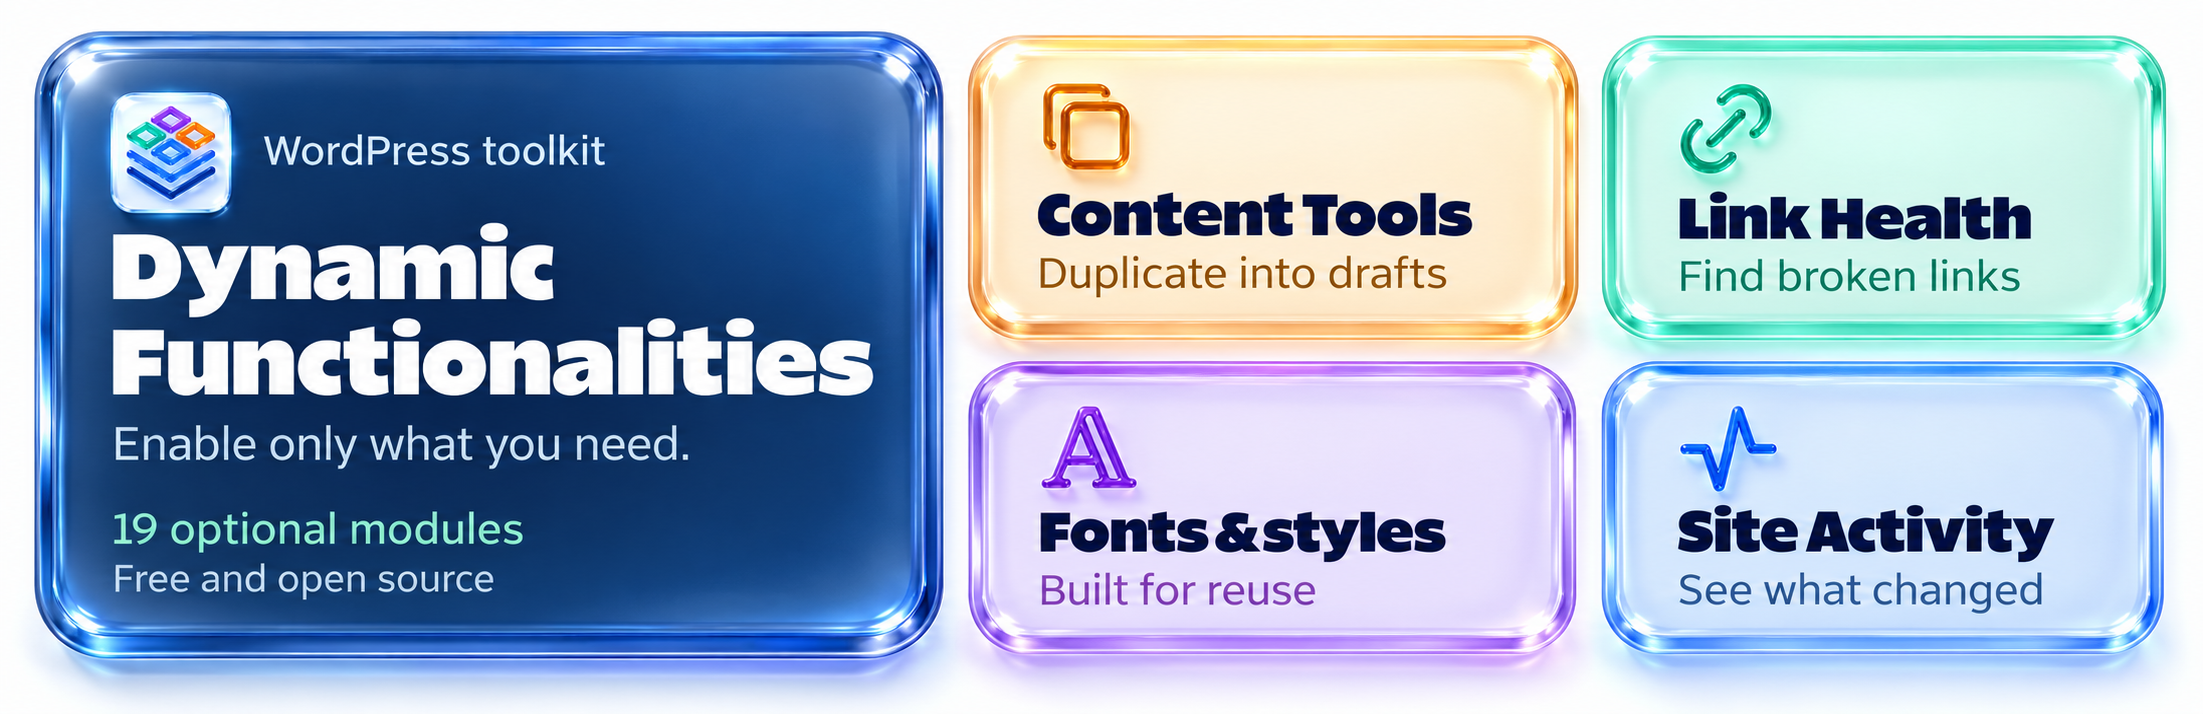
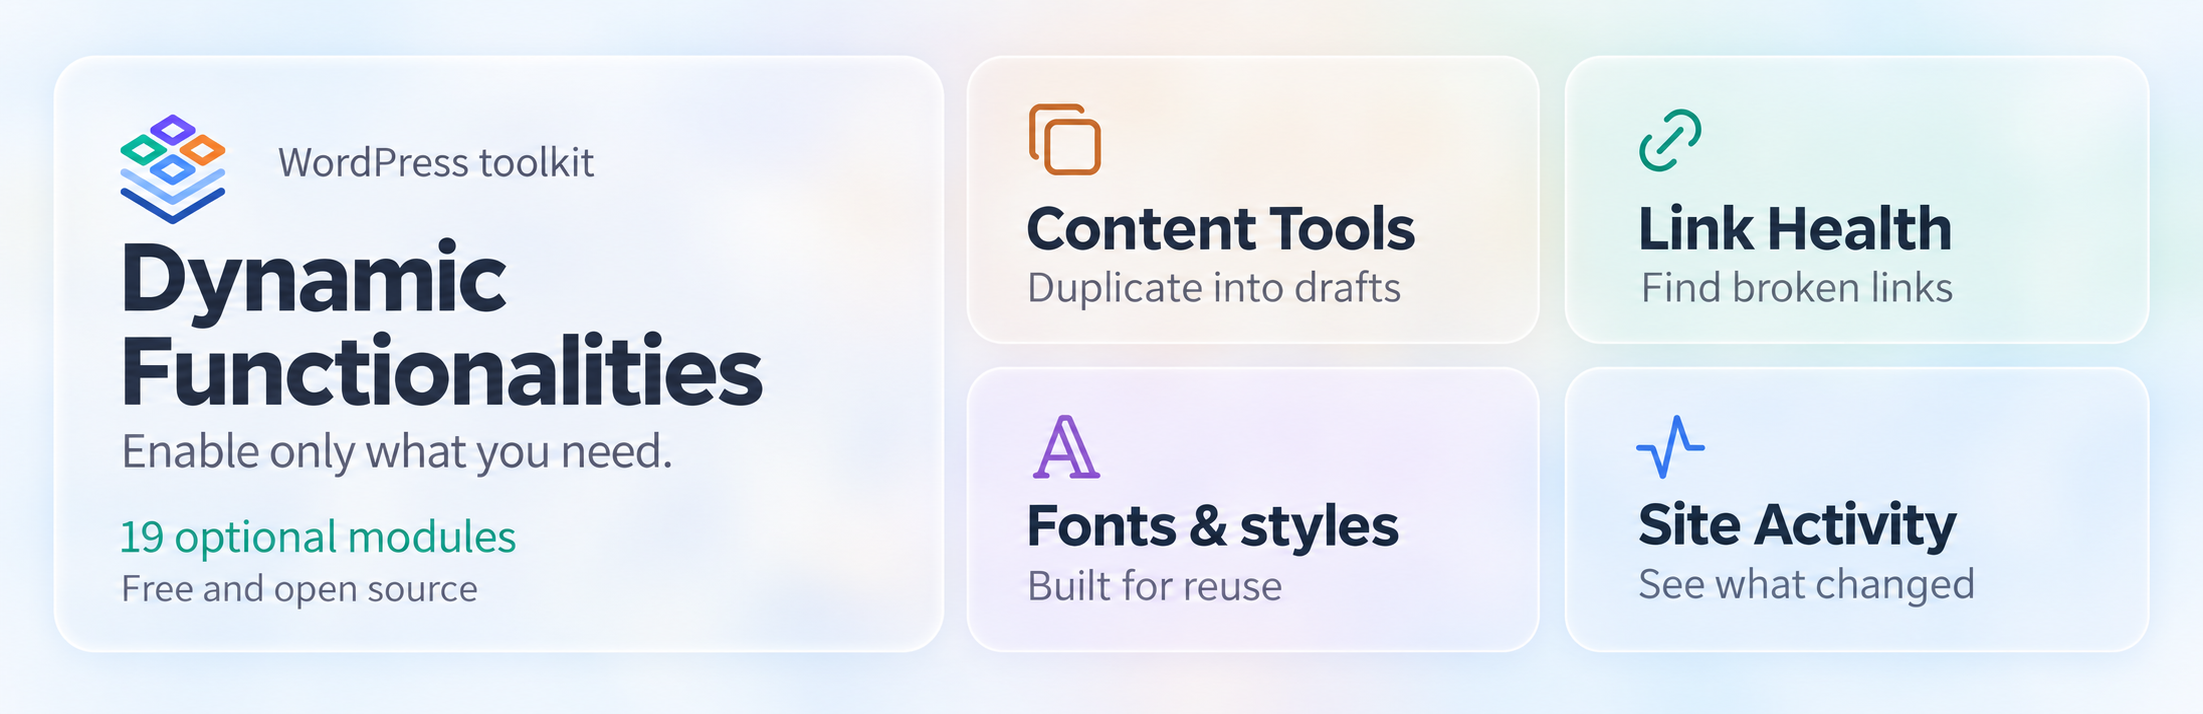
Refine listing assets with restrained translucent materials

diff --git a/docs/branding-assets.md b/docs/branding-assets.md
@@ -1,8 +1,8 @@
 # Liquid-glass listing assets for 1.7.0
 
-The WordPress listing icon and bento banner use the approved four-color modular-platform identity with a 3D liquid-glass treatment: rounded translucent edges, clear bevels, internal reflections, soft refraction, and consistent studio lighting. The four logo tiles retain their violet, teal, orange, and blue identities above two blue platform layers. Transparent corners remain around the pale glass icon tile.
+The WordPress listing icon and bento banner use the approved four-color modular-platform identity with restrained, Apple-inspired Liquid Glass styling: thin translucent surfaces, shallow relief, fine edge highlights, soft ambient shadows, and gentle refraction. The four logo tiles retain softer violet, teal, amber, and blue identities above two blue platform layers. Transparent corners remain around the near-white icon tile.
 
-The bento banner retains the product name, 19-module count, and real feature groups: Content Tools, Link Health, reusable fonts/styles, and Site Activity. Its navy product panel and amber, mint, lavender, and blue feature panels use matching glass materials. All copy was visually checked after generation and again at the actual 772px listing width.
+The bento banner retains the product name, 19-module count, and real feature groups: Content Tools, Link Health, reusable fonts/styles, and Site Activity. A light pearl product panel and nearly clear feature panels sit over a soft amber, mint, lilac, and blue background wash. Dark text, calmer heading weight, and crisp monoline glyphs keep the content primary. All copy was visually checked after generation and again at the actual 772px listing width. The material direction follows [Apple's Liquid Glass reference](https://www.apple.com/newsroom/2025/06/apple-introduces-a-delightful-and-elegant-new-software-design/); these are static marketing images, not an implementation of Apple's rendering APIs.
 
 The materials were rendered with Codex's built-in image-generation tool from the approved flat listing assets. The glass icon was then provided as the material and identity reference for the banner. Native selected renders and exact prompts are preserved in `docs/branding-sources/`; the earlier editable flat SVGs remain there as identity/layout references. The runtime admin mark remains the color-adaptive vector at `assets/brand/functionalities-admin.svg`.
 
@@ -20,7 +20,7 @@ The exact filenames and pixel dimensions follow the [WordPress Plugin Handbook](
 ## Verification and reproduction
 
 - Inspected both native renders, both icon delivery sizes, and both banner sizes. The icon was also composited on white and dark backgrounds for alpha/edge inspection.
-- PNG signatures, exact dimensions, transparent icon corners, and WordPress file-size limits passed. Icons are below 110KB and banners below 815KB.
+- PNG signatures, exact dimensions, transparent icon corners, and WordPress file-size limits passed. Icons are below 81KB and banners below 685KB.
 - The native banner is 2203 x 714; the native icon is 1254 x 1254. Listing exports are downsampled, with no enlargement. The banner's native ratio differs from the exact listing ratio by less than 0.1%.
 - The brand silhouette and all feature labels remain recognizable. Generation adds material detail; the archived flat SVGs remain the editable geometry and typography references rather than being presented as the source of the raster glass effects.
 - No runtime PHP, JavaScript, CSS, settings, or frontend behavior changed in this asset pass.
